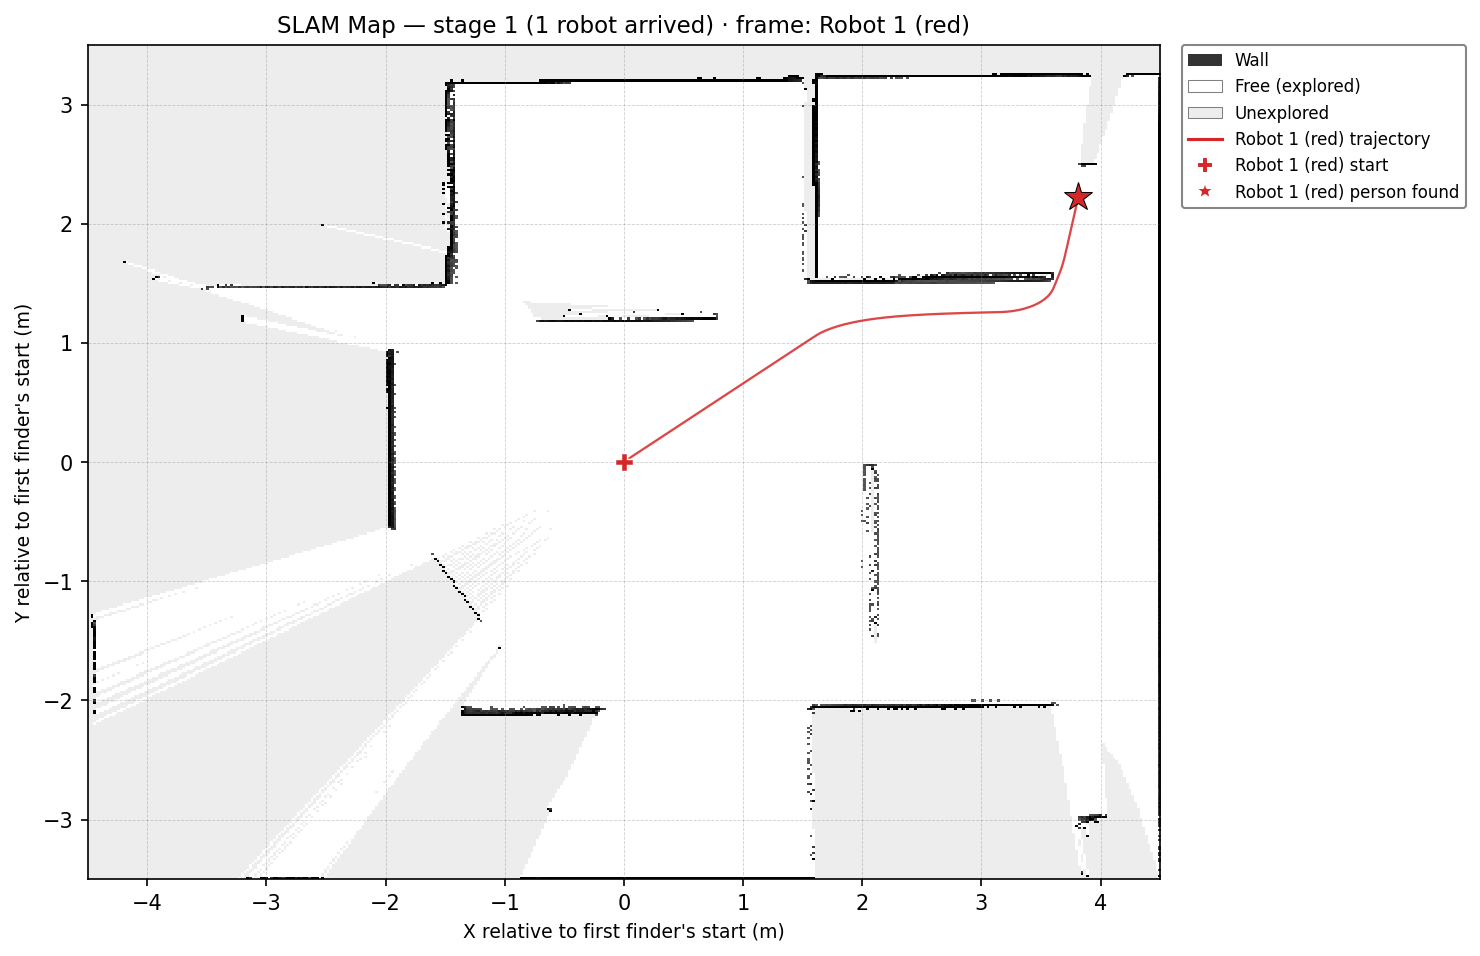
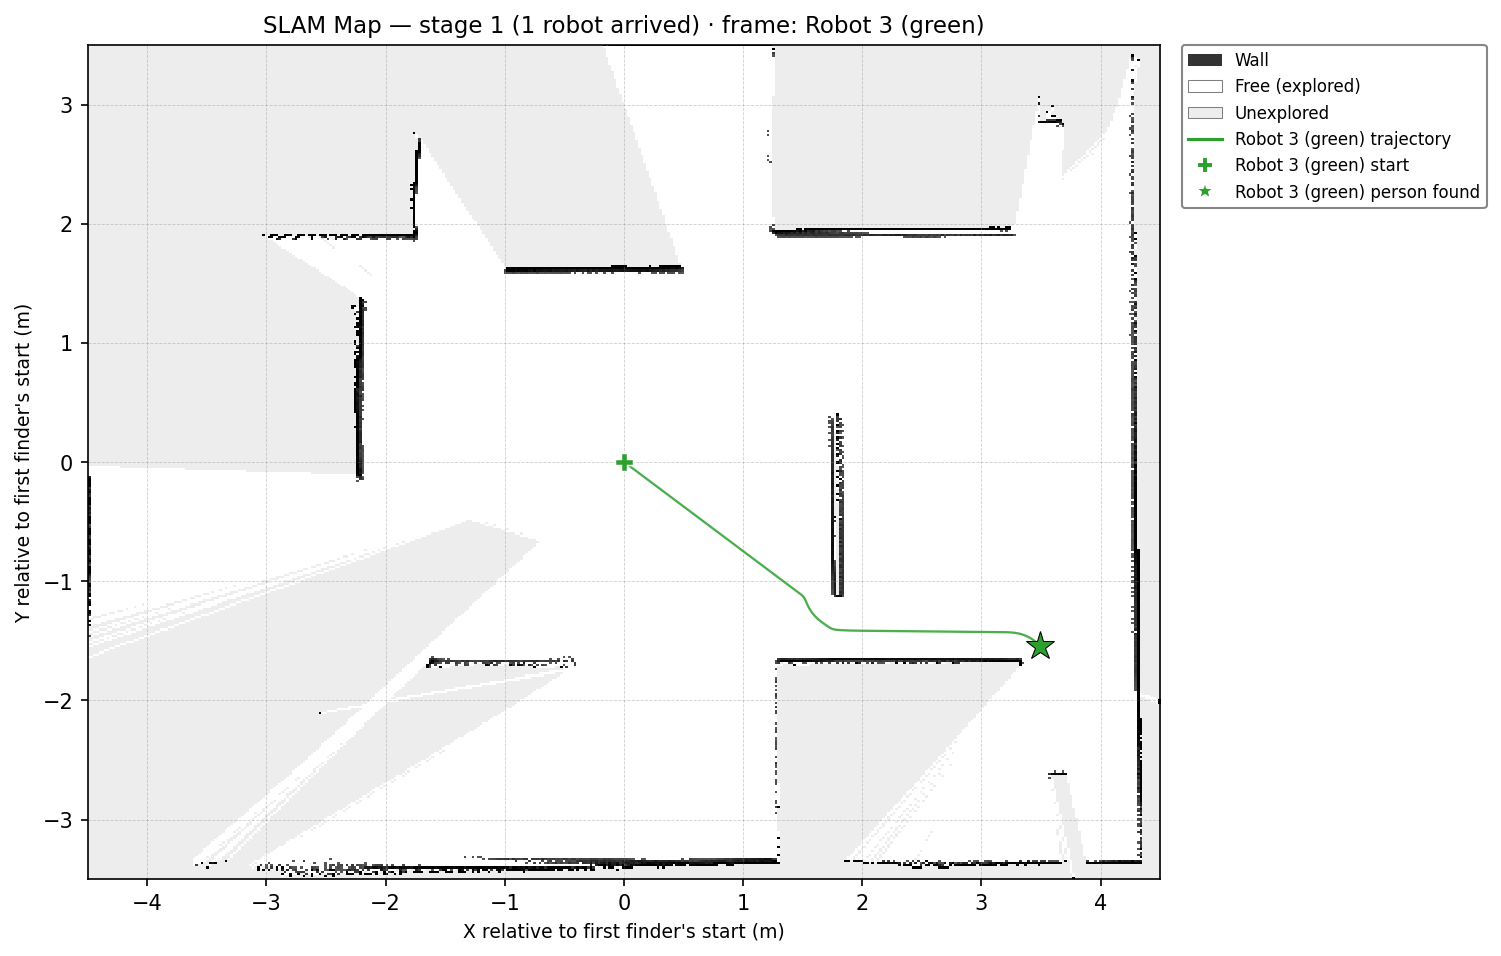
Faster Wall Avoidance
- issues with pixel detection in the camera

diff --git a/controllers/robot_controller_swarm/robot_controller_swarm.py b/controllers/robot_controller_swarm/robot_controller_swarm.py
@@ -48,8 +48,8 @@ CRUISE_SPEED     = 3.0
 MAX_SPEED        = 6.28
 SIM_TIME_LIMIT   = 180.0
 
-RADIO_STOP_DIST  = 0.35
-CAMERA_DIST      = 0.80
+RADIO_STOP_DIST  = 0.35    # legacy proximity fallback (unused as arrival)
+CAMERA_DIST      = 1.50    # scan the camera within this estimated range
 
 MAP_SIZE         = 400
 MAP_CENTRE       = MAP_SIZE // 2
@@ -352,6 +352,98 @@ def avoid_or(lv, rv, ranges):
 def spiral_cmd(t):
     omega = max(SPIRAL_OMEGA_MIN, SPIRAL_OMEGA0 - SPIRAL_DECAY * t)
     return CRUISE_SPEED - omega, CRUISE_SPEED + omega
+
+
+# ═══════════════════════════════════════════════════════════════════
+#  Potential-field navigator — ping is goal, lidar beams repel
+# ═══════════════════════════════════════════════════════════════════
+#
+# Sum-of-vectors steering:
+#   • One ATTRACTION vector of unit length in the ping bearing direction.
+#   • One REPULSION vector per close lidar beam in the forward hemisphere,
+#     pointing AWAY from the obstacle, magnitude growing quadratically as
+#     the beam gets close (capped beyond NAV_REPULSE_DIST → no effect).
+# The resultant gives a smoothly-changing desired heading. There is no
+# "committed wall side" anywhere — the ping always wins direction choice,
+# the robot just deflects tangentially around obstacles. That removes both
+# the stutter (no per-step bang-bang) and the wrong-wall problem (no
+# side commitment to be wrong about).
+#
+# Wall hugging is allowed: NAV_REPULSE_DIST is tight (0.30 m) so we don't
+# bounce off walls early. Forward speed throttles down only when the
+# front cone gets near NAV_SLOW_DIST.
+#
+NAV_REPULSE_DIST   = 0.30    # only beams closer than this repel
+NAV_REPULSE_GAIN   = 2.2     # repulsion strength vs unit attraction
+NAV_SLOW_DIST      = 0.28    # front clearance below this throttles speed
+NAV_MIN_SPEED      = 1.2     # always keep some headway unless turning hard
+NAV_FRONT_CONE     = math.radians(20)
+NAV_HEMISPHERE     = math.pi / 2
+NAV_BEAM_STRIDE    = 3       # subsample lidar (360 beams → ~120 evaluated)
+NAV_TURN_K         = 4.5     # heading-error → angular velocity gain
+
+
+def navigate(ranges, ping_bearing):
+    """Smooth ping-following with potential-field obstacle deflection."""
+    if not ranges:
+        return steer_to_bearing(ping_bearing)
+
+    n = len(ranges)
+    # Attraction (unit vector toward ping in robot frame)
+    ax = math.cos(ping_bearing)
+    ay = math.sin(ping_bearing)
+    # Repulsion accumulator
+    rx = 0.0
+    ry = 0.0
+    front_clear = INF
+
+    for i in range(0, n, NAV_BEAM_STRIDE):
+        r = ranges[i]
+        if r <= 0.0 or math.isinf(r) or math.isnan(r):
+            continue
+        angle = beam_angle(i, n)
+        # Track narrow front clearance for speed scaling
+        if abs(angle) < NAV_FRONT_CONE and r < front_clear:
+            front_clear = r
+        # Only forward hemisphere contributes repulsion (don't push from behind)
+        if abs(angle) > NAV_HEMISPHERE:
+            continue
+        if r >= NAV_REPULSE_DIST:
+            continue
+        # Quadratic strength: gentle far, urgent close.
+        t = (NAV_REPULSE_DIST - r) / NAV_REPULSE_DIST   # 0..1
+        strength = NAV_REPULSE_GAIN * t * t
+        # Vector AWAY from the beam direction
+        rx -= math.cos(angle) * strength
+        ry -= math.sin(angle) * strength
+
+    # Resultant desired heading (robot frame).
+    dx = ax + rx
+    dy = ay + ry
+    if dx * dx + dy * dy < 1e-3:
+        # Trapped — resultant cancelled out. Pivot in place toward open side.
+        # Pick whichever half-space has more total clearance.
+        return (-TURN_SPEED, TURN_SPEED) if ping_bearing >= 0 else (TURN_SPEED, -TURN_SPEED)
+    desired = math.atan2(dy, dx)
+
+    # Convert (desired, speed_factor) → wheel speeds
+    if front_clear < NAV_SLOW_DIST:
+        speed_factor = max(0.15, front_clear / NAV_SLOW_DIST)
+    else:
+        speed_factor = 1.0
+    cruise = CRUISE_SPEED * speed_factor
+
+    error = desired
+    while error >  math.pi: error -= 2.0 * math.pi
+    while error < -math.pi: error += 2.0 * math.pi
+    omega   = NAV_TURN_K * error
+    forward = cruise * max(0.0, 1.0 - 2.0 * abs(error) / math.pi)
+    # Floor forward to NAV_MIN_SPEED unless we're sharply turning or boxed in
+    if abs(error) < math.pi / 2 and front_clear > NAV_SLOW_DIST and forward < NAV_MIN_SPEED:
+        forward = NAV_MIN_SPEED
+    lv = max(-MAX_SPEED, min(MAX_SPEED, forward - omega))
+    rv = max(-MAX_SPEED, min(MAX_SPEED, forward + omega))
+    return lv, rv
 
 
 # ═══════════════════════════════════════════════════════════════════
@@ -689,21 +781,10 @@ while robot.step(TIME_STEP) != -1:
             draw_map(robot_px, robot_py, trajectory)
         continue
 
-    # ── Phase 2: radio homing ─────────────────────────────────────
+    # ── Phase 2: potential-field homing; arrival = camera colour ID ──
 
-    if last_range < RADIO_STOP_DIST:
-        left_motor.setVelocity(0.0)
-        right_motor.setVelocity(0.0)
-        pinger_pix   = (robot_px, robot_py)
-        pinger_local = (local_x, local_y)
-        print("[scout %s] proximity stop — est. %.2f m in %.1f s"
-              % (ROBOT_ID, last_range, sim_time))
-        draw_map(robot_px, robot_py, trajectory, pinger_pix, camera_active)
-        reached = True
-        emit_staged_map(pinger_local, trajectory, sim_time)
-        emit_staged_map._last_stage = len(load_all_states())
-        continue
-
+    # Camera scan: arrival trigger. As soon as the target colour is
+    # identified, stop and emit the staged map — no proximity wait.
     if last_range < CAMERA_DIST:
         if not camera_active:
             camera_active = True
@@ -716,12 +797,21 @@ while robot.step(TIME_STEP) != -1:
                       % (ROBOT_ID, count, TARGET_COL, TARGET_PIXEL_MIN))
             if found:
                 person_found = True
-                print("[scout %s] FOUND %s PERSON"
-                      % (ROBOT_ID, TARGET_COL.upper()))
+                print("[scout %s] FOUND %s PERSON — colour ID at est. %.2f m, %.1f s"
+                      % (ROBOT_ID, TARGET_COL.upper(), last_range, sim_time))
+                left_motor.setVelocity(0.0)
+                right_motor.setVelocity(0.0)
+                pinger_pix   = (robot_px, robot_py)
+                pinger_local = (local_x, local_y)
+                draw_map(robot_px, robot_py, trajectory, pinger_pix, camera_active)
+                reached = True
+                emit_staged_map(pinger_local, trajectory, sim_time)
+                emit_staged_map._last_stage = len(load_all_states())
+                continue
 
-    lv, rv = steer_to_bearing(last_bearing)
-    if last_range > CAMERA_DIST:
-        lv, rv = avoid_or(lv, rv, ranges)
+    # Motion: potential-field navigator. Ping bearing attracts, close
+    # lidar beams repel — smooth deflection, no committed wall side.
+    lv, rv = navigate(ranges, last_bearing)
     left_motor.setVelocity(lv)
     right_motor.setVelocity(rv)
 